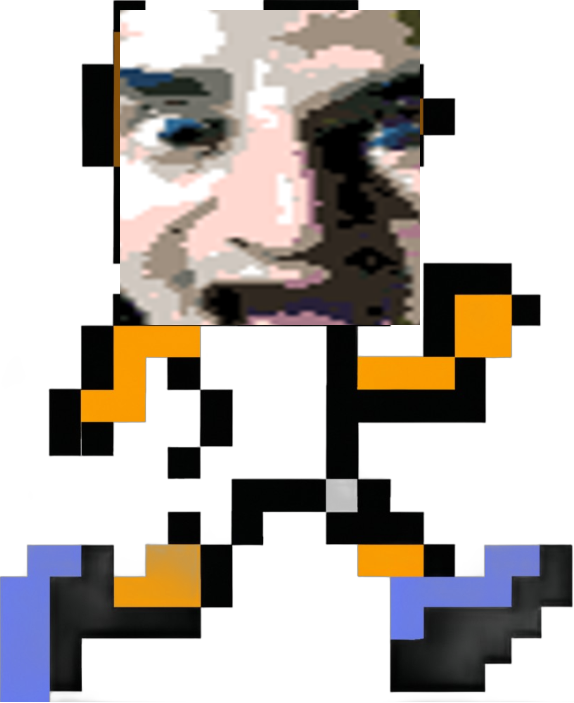
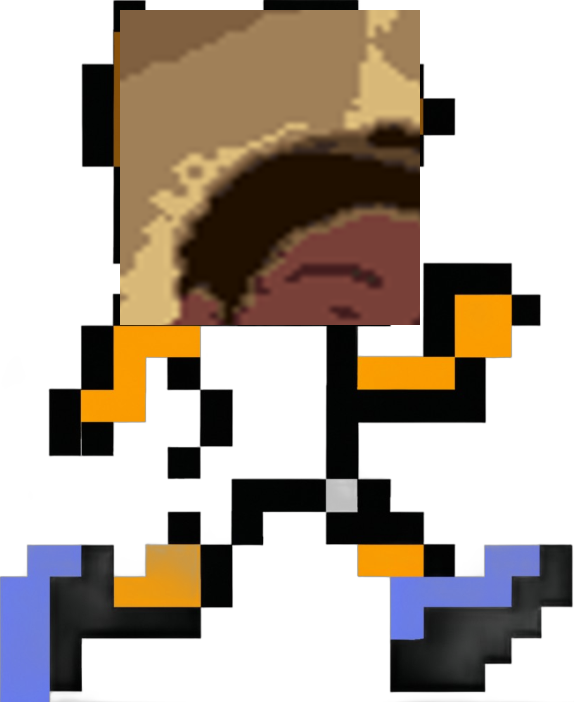
Final State of Game

Changed region(s): [[0.2073, 0.0, 0.7404, 0.478]]

diff --git a/RunsWorking/pyxelate/Cam_Main.py b/RunsWorking/pyxelate/Cam_Main.py
@@ -1,0 +1,99 @@
+from skimage import io
+from pyxelate import Pyx, Pal
+# program to capture single image from webcam in python
+import cv2 as cv
+import time 
+import subprocess
+
+# SET THE COUNTDOWN TIMER
+# for simplicity we set it to 3
+# We can also take this as input
+TIMER = int(5)
+   
+# Open the camera
+cap = cv.VideoCapture(0)
+open = True
+second = True
+
+while True:
+      
+    # Read and display each frame
+    ret, img = cap.read()
+    cv.imshow("The Runs", img)
+
+    # check for the key pressed
+    k = cv.waitKey(125)
+
+    # set the key for the countdown
+    # to begin. Here we set q
+    # if key pressed is q
+    if k == ord(' '):
+        prev = time.time()
+  
+        while TIMER >= 0:
+            ret, img = cap.read()
+  
+            # Display countdown on each frame
+            # specify the font and draw the
+            # countdown using puttext
+            font = cv.FONT_HERSHEY_SIMPLEX
+            cv.putText(img, str(TIMER), 
+                        (200, 250), font,
+                        7, (0, 255, 255),
+                        4, cv.LINE_AA)
+            cv.imshow('a', img)
+            cv.waitKey(125)
+  
+            # current time
+            cur = time.time()
+  
+            # Update and keep track of Countdown
+            # if time elapsed is one second 
+            # then decrease the counter
+            if cur-prev >= 1:
+                prev = cur
+                TIMER = TIMER-1
+  
+        else:
+            ret, img = cap.read()
+  
+            # Display the clicked frame for 2 
+            # sec.You can increase time in 
+            # waitKey also
+            cv.imshow('a', img)
+  
+            # time for which image displayed
+            cv.waitKey(2000)
+  
+            # Save the frame
+            cv.imwrite('camera.jpg', img)
+            break
+  
+            # HERE we can reset the Countdown timer
+            # if we want more Capture without closing
+            # the camera
+  
+# close the camera
+cap.release()
+   
+# close all the opened windows
+cv.destroyAllWindows()
+
+image = io.imread(r"camera.jpg")  
+
+downsample_by = 4  # new image will be 1/14th of the original in size
+palette = 15  # find 7 colors
+
+# 1) Instantiate Pyx transformer
+pyx = Pyx(factor=downsample_by, palette=palette)
+
+# 2) fit an image, allow Pyxelate to learn the color palette
+pyx.fit(image)
+
+# 3) transform image to pixel art using the learned color palette
+new_image = pyx.transform(image)
+
+# save new image with 'skimage.io.imsave()'
+io.imsave("RunsWorking\pyxelate\pixel.png", new_image)
+
+subprocess.run(['python', 'RunsWorking\pyxelate\DropImage.py'])

diff --git a/RunsWorking/game/game.py b/RunsWorking/game/game.py
@@ -1,9 +1,24 @@
 ## https://youtu.be/ZV8TNrwqG1Y
 import pygame 
 import random 
-
+from pygame.locals import *
 pygame.init()
+import subprocess
 
+screen = pygame.display.set_mode([900, 600])
+pygame.display.set_caption("The Runs")
+def show_title_screen():
+    title_screen = pygame.image.load(r"RunsWorking\game\title_screen.jpg").convert()
+    title_screen = pygame.transform.scale(title_screen, (900,600))
+    screen.blit(title_screen, (0, 0))
+    pygame.display.update()
+    start_ticks = pygame.time.get_ticks()
+    while pygame.time.get_ticks() - start_ticks < 10000:
+        pygame.event.pump()
+
+
+show_title_screen()
+subprocess.run(['python', 'RunsWorking\pyxelate\Cam_Main.py'])
 #game constants 
 white = (255, 255, 255)
 black = (0,0,0)
